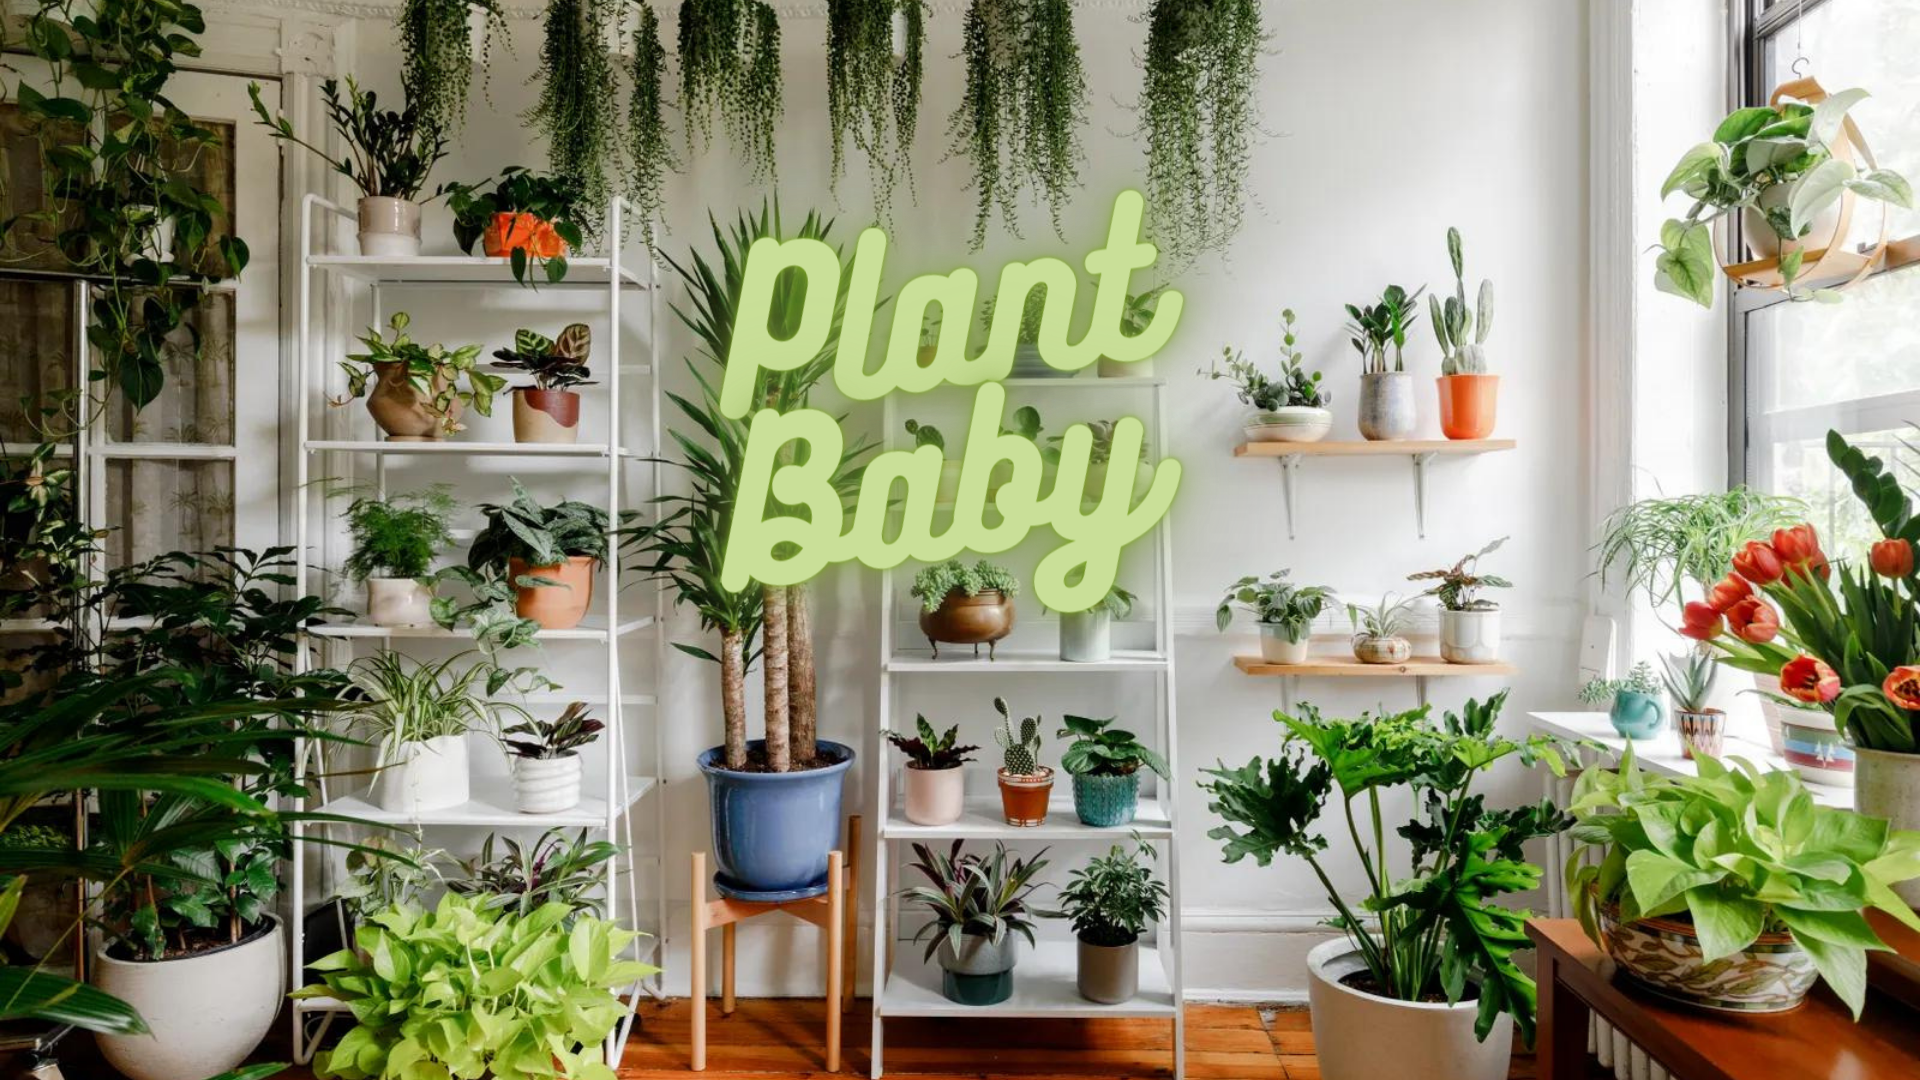
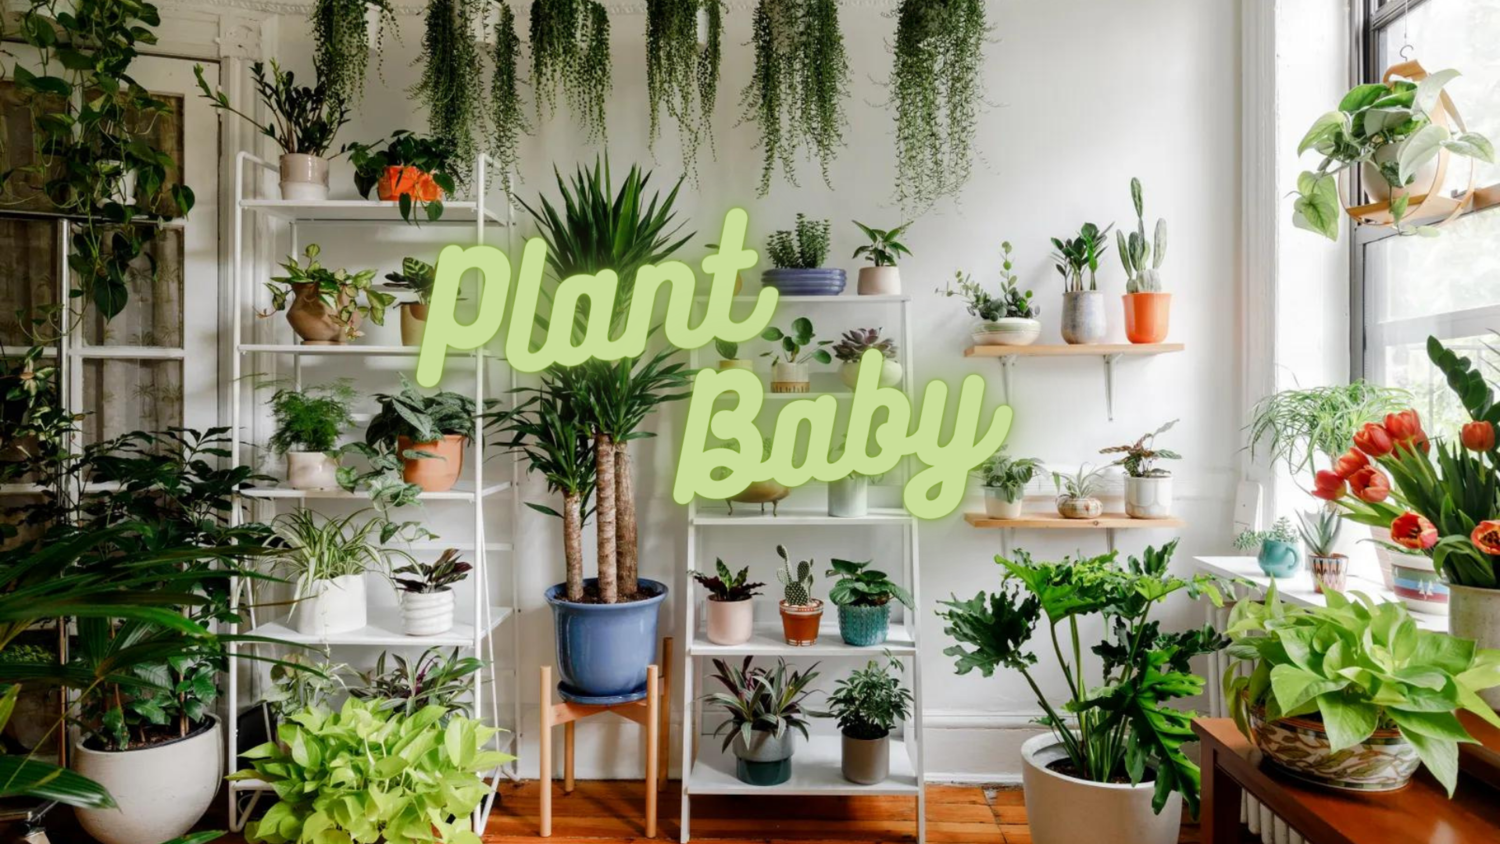
brought out button frm hero; realigned login button; added navigation to home button

Changed region(s): [[0.2453, 0.154, 0.7053, 0.6469]]

diff --git a/src/components/MenuDrawer.js b/src/components/MenuDrawer.js
@@ -1,24 +1,32 @@
 import * as React from "react";
 import { useState } from "react";
+import { useNavigate } from "react-router-dom";
 import {
   Box,
   Drawer,
   List,
   Divider,
   ListItem,
-  ListItemIcon,
   ListItemText,
   IconButton,
 } from "@mui/material";
-import InboxIcon from "@mui/icons-material/Inbox";
 import MenuIcon from "@mui/icons-material/Menu";
-import MailIcon from "@mui/icons-material/Mail";
 import "../App.css";
 
 export default function MenuDrawer() {
   const [state, setState] = useState({
     left: false,
   });
+  const navigate = useNavigate();
+
+  const handleNavBtns = () => {
+    navigate(tabs.to);
+  };
+  const tabs = [
+    { label: "Dasboard", to: "/dashboard" },
+    { label: "Plants", to: "/plants" },
+    { label: "Plant Doctor", to: "/plantdoctor" },
+  ];
 
   const toggleDrawer = (anchor, open) => (event) => {
     if (
@@ -40,12 +48,9 @@ export default function MenuDrawer() {
       style={{ marginTop: "64px" }}
     >
       <List>
-        {["Dashboard", "Plants", "Plant Doctor"].map((text, index) => (
-          <ListItem button key={text}>
-            <ListItemIcon>
-              {index % 2 === 0 ? <InboxIcon /> : <MailIcon />}
-            </ListItemIcon>
-            <ListItemText primary={text} />
+        {tabs.map((tab, index) => (
+          <ListItem button key={tab.label} onClick={handleNavBtns}>
+            <ListItemText primary={tab.label} />
           </ListItem>
         ))}
       </List>

diff --git a/src/components/Header.js b/src/components/Header.js
@@ -1,22 +1,30 @@
 import { AppBar, Box, Toolbar, Typography, Button } from "@mui/material";
 import MenuDrawer from "./MenuDrawer";
 import "../App.css";
+import { useNavigate } from "react-router-dom";
 
 export default function Header() {
+  const navigate = useNavigate();
+  const handleHomePage = () => {
+    navigate("/");
+  };
   return (
     <Box sx={{ flexGrow: 1 }} className="header">
       <AppBar position="fixed">
         <Toolbar style={{ backgroundColor: "#224907" }}>
           <MenuDrawer />
-          <Typography
-            variant="h6"
-            component="div"
-            sx={{ flexGrow: 1 }}
-            className="web-name"
+          <Button
+            color="inherit"
+            style={{ fontFamily: "Bukhari Script, sans-serif" }}
+            onClick={handleHomePage}
           >
             Plant Baby
-          </Typography>
-          <Button color="inherit" className="login-button">
+          </Button>
+          <Button
+            color="inherit"
+            className="login-button"
+            style={{ position: "absolute", right: "15px" }}
+          >
             Login
           </Button>
         </Toolbar>

diff --git a/src/components/Hero.js b/src/components/Hero.js
@@ -1,17 +1,20 @@
-import HeroImage from "../assets/PlantBabyHeroImg.png";
+import { Fab } from "@mui/material";
 import "../components/Hero.css";
 import React from "react";
 
 export default function Hero() {
   return (
     <>
-      <div class="hero-image">
-        {/* <img
-          src={HeroImage}
-          alt="a room with many indoor houseplants. Some are resting on a shelf; others are big enough to sit on the ground"
-          width="100%"
-        /> */}
-        <button className="lol">Hello</button>
+      <div class="container">
+        <div class="hero-image">
+          {/* <div class="hero-button"> */}
+          <Fab
+            variant="extended"
+            style={{ position: "absolute", top: "250px", left: "250px" }}
+          >
+            Get Started
+          </Fab>
+        </div>
       </div>
     </>
   );

diff --git a/src/components/Hero.css b/src/components/Hero.css
@@ -1,15 +1,28 @@
 .hero-image {
-  background-image: url(../assets/PlantBabyHeroImg.png);
-  background-position: center;
-  background-repeat: no-repeat;
-  background-size: cover;
-  position: relative;
-  height: 50%;
-  z-index: 999;
+  background-image: url("../assets/PlantBabyHeroImage.png");
+  width: 100%;
+  height: 100%;
+  -o-object-fit: cover;
+  object-fit: cover;
 }
 
-.lol {
-  z-index: 1;
-  height: 50%;
-  color: #000;
+.container {
+  display: flex;
+  background: #0c0c0c;
+  justify-content: center;
+  align-items: center;
+  height: 815px;
+  position: relative;
+  /* z-index: 2; */
+}
+
+.hero-button {
+  z-index: 0;
+  max-width: 1200px;
+  position: absolute;
+  padding: 8px 24px;
+  display: flex;
+  flex: column;
+  flex-direction: column;
+  align-items: center;
 }

diff --git a/src/App.css b/src/App.css
@@ -7,6 +7,9 @@
 
 .login-button {
   font-family: "Fira Sans", sans-serif;
+  color: "inherit";
+  position: absolute;
+  right: 15px;
 }
 
 .App {
@@ -25,6 +28,7 @@
 
 .plant-page {
   display: flex;
+  margin-top: 50px;
 }
 
 .plant-page-img-column {
